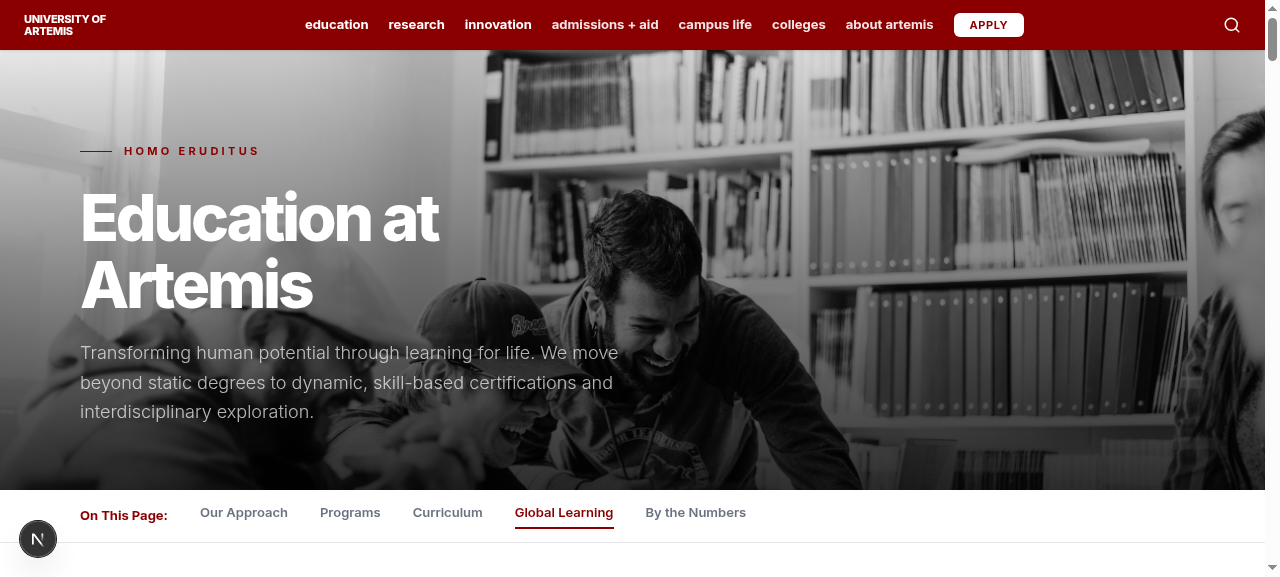
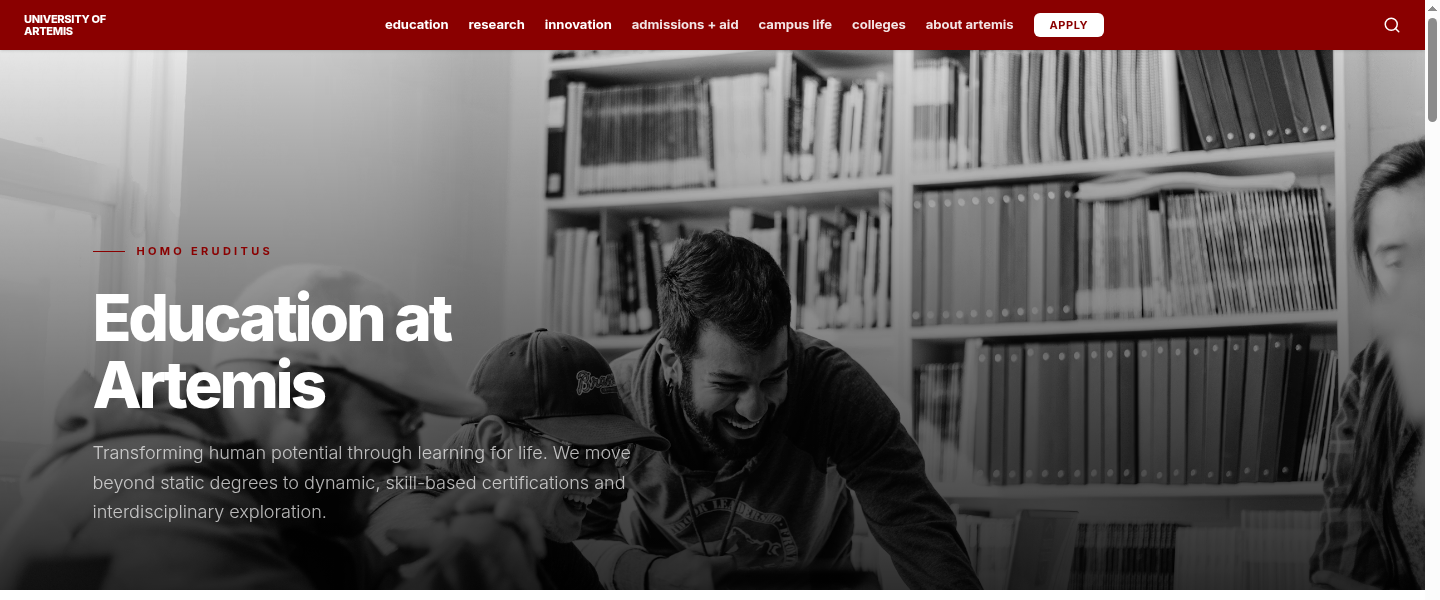
Fix hero image not covering full width: remove flex justify-center wrapper
- Removed the problematic <div className='flex flex-1 justify-center relative'> wrapper
  that was centering subpage content instead of letting it stretch full width
- Restructured ArtemisApp: homepage uses flex layout with sidebar, subpages use
  simple w-full layout with NO sidebar in the content flow
- For subpages, Sidebar only renders the mobile drawer (fixed positioning, zero layout impact)
- Added scrollbar-gutter: stable to prevent scrollbar from clipping full-bleed elements
- Hero image now properly spans from edge to edge of the viewport
- Crimson header bar also spans full width

diff --git a/src/components/artemis/ArtemisApp.tsx b/src/components/artemis/ArtemisApp.tsx
@@ -158,44 +158,42 @@ export default function ArtemisApp() {
 
   return (
     <div className="w-full min-h-screen bg-white flex flex-col font-sans text-[#141414]">
-      {/* Fixed Header */}
+      {/* Fixed Header — always full-width */}
       <Header 
         onMenuClick={() => setSidebarOpen(true)}
         goHome={() => { setCurrentPage('home'); setSidebarOpen(false); }} 
         goToPage={goToPage} 
       />
-      
-      <div className="flex flex-1 justify-center relative">
-        {isHome ? (
-          /* Homepage: sidebar + content side-by-side */
-          <div className="flex w-full max-w-[1440px]">
-            <Sidebar 
-              isOpen={isSidebarOpen}
-              onClose={() => setSidebarOpen(false)}
-              goHome={() => { setCurrentPage('home'); setSidebarOpen(false); }}
-              goToPage={goToPage}
-            />
-            <main className="flex-1 flex flex-col min-w-0">
-              {renderPage()}
-            </main>
-          </div>
-        ) : (
-          /* Subpages: full-width content, no sidebar column */
-          <div className="w-full">
-            {/* Mobile drawer still available on subpages */}
-            <Sidebar 
-              isOpen={isSidebarOpen}
-              onClose={() => setSidebarOpen(false)}
-              goHome={() => { setCurrentPage('home'); setSidebarOpen(false); }}
-              goToPage={goToPage}
-              hideDesktopSidebar={true}
-            />
-            <main className="flex flex-col">
-              {renderPage()}
-            </main>
-          </div>
-        )}
-      </div>
+
+      {isHome ? (
+        /* ─── Homepage: sidebar + content side-by-side ─── */
+        <div className="flex flex-1">
+          <Sidebar 
+            isOpen={isSidebarOpen}
+            onClose={() => setSidebarOpen(false)}
+            goHome={() => { setCurrentPage('home'); setSidebarOpen(false); }}
+            goToPage={goToPage}
+          />
+          <main className="flex-1 flex flex-col min-w-0">
+            {renderPage()}
+          </main>
+        </div>
+      ) : (
+        /* ─── Subpages: full-viewport-width content, no sidebar in flow ─── */
+        <>
+          {/* Mobile drawer only — uses fixed positioning, zero layout impact */}
+          <Sidebar 
+            isOpen={isSidebarOpen}
+            onClose={() => setSidebarOpen(false)}
+            goHome={() => { setCurrentPage('home'); setSidebarOpen(false); }}
+            goToPage={goToPage}
+            hideDesktopSidebar={true}
+          />
+          <main className="flex-1 flex flex-col w-full">
+            {renderPage()}
+          </main>
+        </>
+      )}
     </div>
   );
 }

diff --git a/src/app/globals.css b/src/app/globals.css
@@ -117,6 +117,10 @@
   * {
     @apply border-border outline-ring/50;
   }
+  html {
+    /* Reserve scrollbar space so full-bleed elements aren't clipped by scrollbar gutter */
+    scrollbar-gutter: stable;
+  }
   body {
     @apply bg-background text-foreground;
   }
